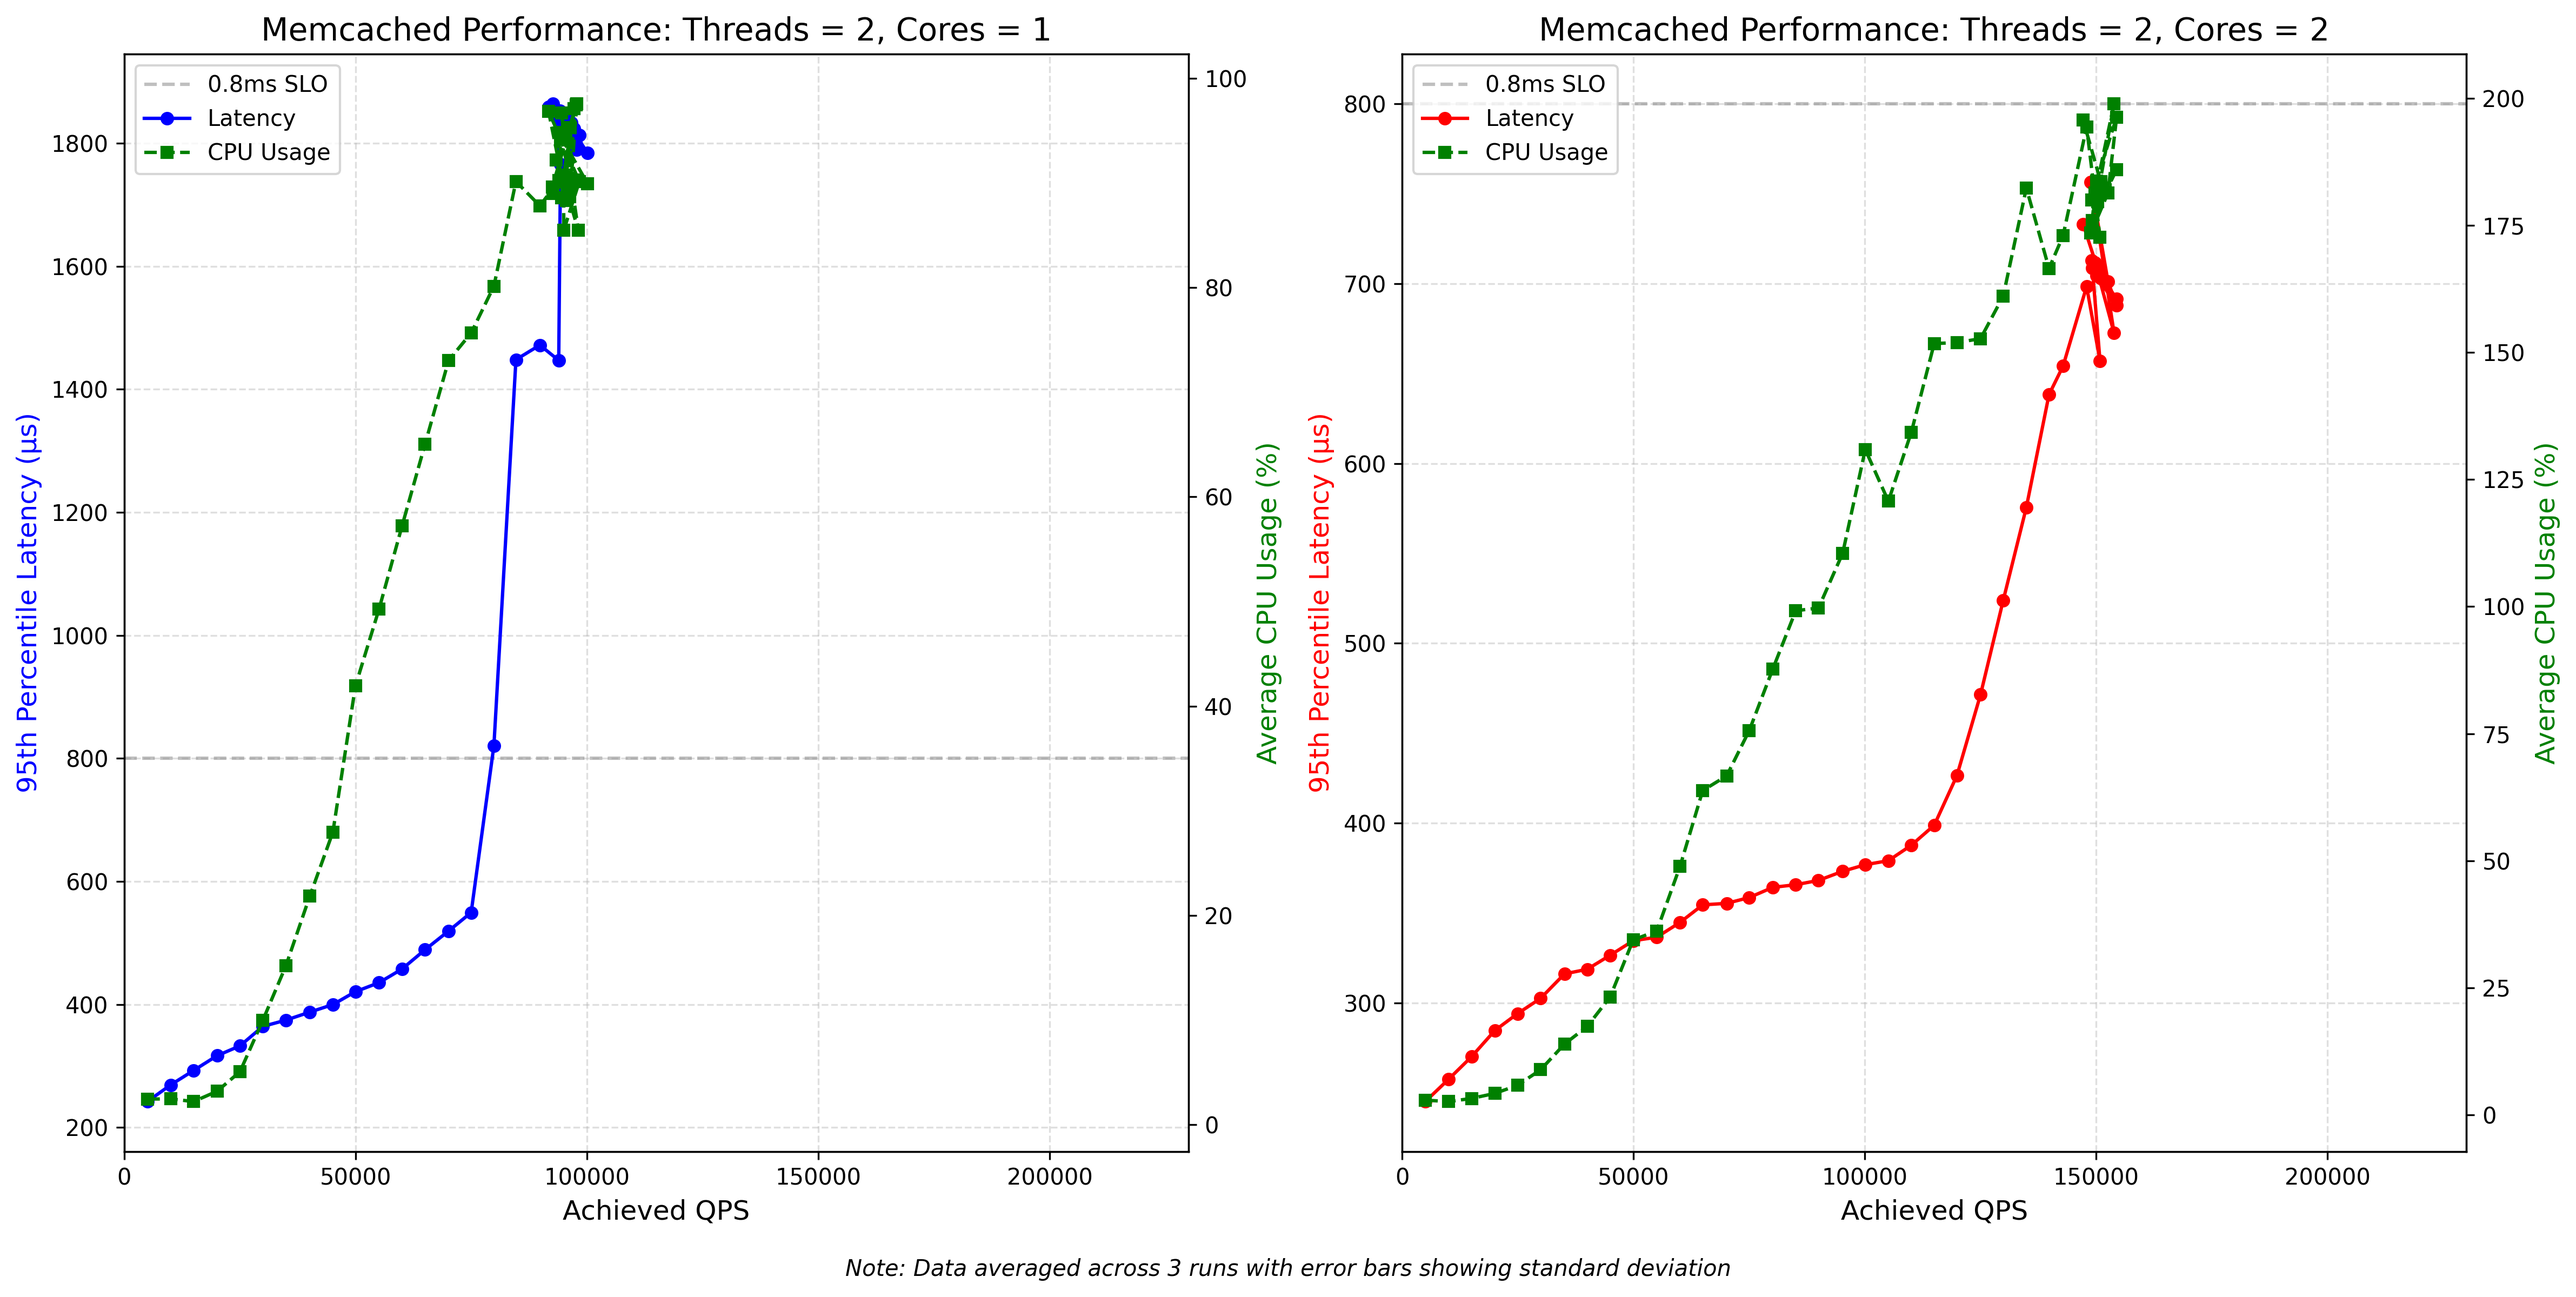
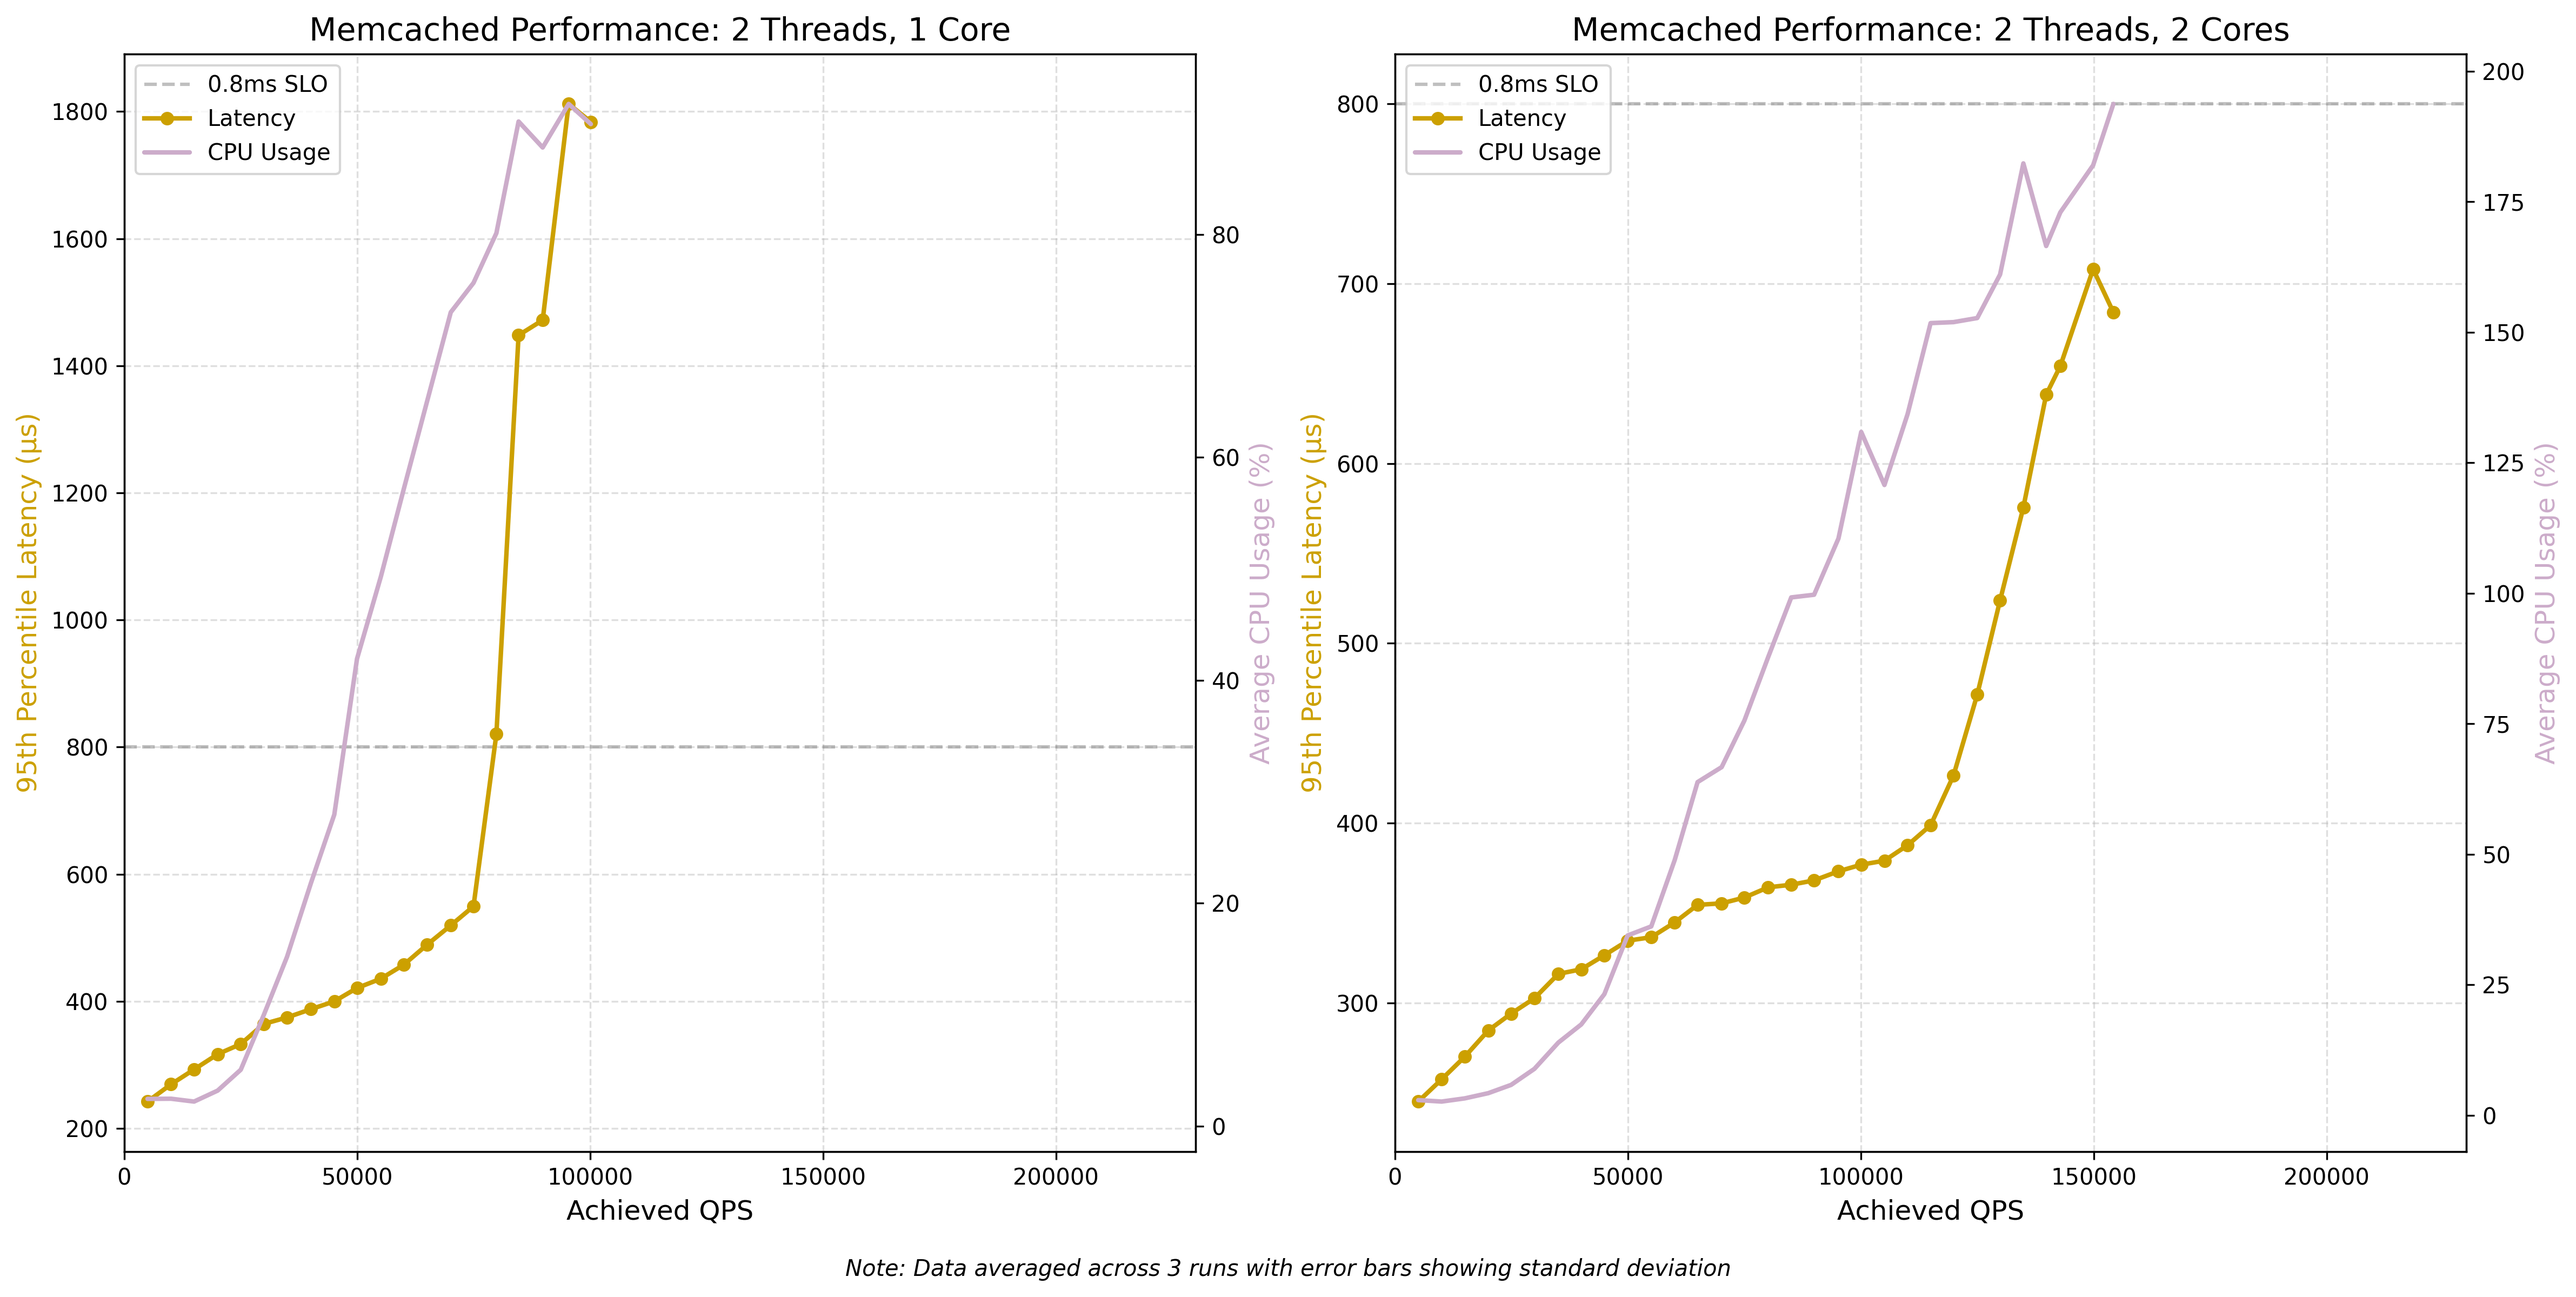
improve part4d plot

diff --git a/part4/vis_part4_1_d.py b/part4/vis_part4_1_d.py
@@ -4,6 +4,10 @@ import os
 import numpy as np
 import csv
 from collections import defaultdict
+import sys
+
+
+COLORS = ['#CCA000', '#CCACCA']
 
 def read_cpu_usage(file_path: str, cores: list[int]):
     """Read CPU usage data from CSV file and return as a list of (timestamp, cpu_percentages) tuples."""
@@ -53,11 +57,54 @@ def calculate_avg_cpu_usage(cpu_data, start_time, end_time):
         return 0
     return sum(relevant_data) / len(relevant_data)
 
-def main():
+def aggregate_qps_data(qps_data, latency_data, cpu_data, window_size):
+    """Aggregate data points where QPS values are within a specified window size."""
+    # Sort all data by QPS
+    combined_data = list(zip(qps_data, latency_data, cpu_data))
+    combined_data.sort(key=lambda x: x[0])
+    
+    aggregated_qps = []
+    aggregated_latency = []
+    aggregated_cpu = []
+    
+    current_window = []
+    current_qps = None
+    
+    for qps, latency, cpu in combined_data:
+        if current_qps is None or abs(qps - current_qps) <= window_size:
+            current_window.append((qps, latency, cpu))
+            current_qps = qps
+        else:
+            # Calculate averages for the current window
+            avg_qps = np.mean([x[0] for x in current_window])
+            avg_latency = np.mean([x[1] for x in current_window])
+            avg_cpu = np.mean([x[2] for x in current_window])
+            
+            aggregated_qps.append(avg_qps)
+            aggregated_latency.append(avg_latency)
+            aggregated_cpu.append(avg_cpu)
+            
+            # Start new window
+            current_window = [(qps, latency, cpu)]
+            current_qps = qps
+    
+    # Process the last window
+    if current_window:
+        avg_qps = np.mean([x[0] for x in current_window])
+        avg_latency = np.mean([x[1] for x in current_window])
+        avg_cpu = np.mean([x[2] for x in current_window])
+        
+        aggregated_qps.append(avg_qps)
+        aggregated_latency.append(avg_latency)
+        aggregated_cpu.append(avg_cpu)
+    
+    return aggregated_qps, aggregated_latency, aggregated_cpu
+
+def main(window_size: int):
     # Define the configurations
     configs = {
-        "experiment1Core2Threads": {"T": 2, "C": 1, "label": "Threads = 2, Cores = 1"},
-        "experiment2Cores2Threads": {"T": 2, "C": 2, "label": "Threads = 2, Cores = 2"},
+        "experiment1Core2Threads": {"T": 2, "C": 1, "label": "2 Threads, 1 Core"},
+        "experiment2Cores2Threads": {"T": 2, "C": 2, "label": "2 Threads, 2 Cores"},
     }
     
     # Create a figure with two subplots
@@ -115,6 +162,8 @@ def main():
             avg_latency.append(np.mean(latency_data[target]))
             avg_cpu_usage.append(np.mean(cpu_data[target]))
 
+        # Aggregate data points within 5k QPS windows
+        avg_qps, avg_latency, avg_cpu_usage = aggregate_qps_data(avg_qps, avg_latency, avg_cpu_usage, window_size)
         
         # Create the primary y-axis for latency
         ax1 = axs[i]
@@ -124,20 +173,20 @@ def main():
         
         # Create bar plot for CPU usage first (behind)
         ax2.errorbar(avg_qps, avg_cpu_usage,
-                    label="CPU Usage", color='green',
-                    marker='s', linestyle='--', linewidth=1.5, markersize=5,
+                    label="CPU Usage", color=COLORS[1],
+                    linestyle='-', linewidth=2, solid_capstyle='round',
                     capsize=3, capthick=1, elinewidth=1, zorder=1)
         
         # Create the latency plot on top
         ax1.errorbar(avg_qps, avg_latency,
-                    label="Latency", color=colors[i], 
-                    marker='o', linestyle='-', linewidth=1.5, markersize=5,
+                    label="Latency", color=COLORS[0], 
+                    marker='o', linestyle='-', linewidth=2, markersize=5,
                     capsize=3, capthick=1, elinewidth=1, zorder=2)
         
         # Set labels and title for each subplot
         ax1.set_xlabel('Achieved QPS', fontsize=12)
-        ax1.set_ylabel('95th Percentile Latency (μs)', fontsize=12, color=colors[i])
-        ax2.set_ylabel('Average CPU Usage (%)', fontsize=12, color='green')
+        ax1.set_ylabel('95th Percentile Latency (μs)', fontsize=12, color=COLORS[0])
+        ax2.set_ylabel('Average CPU Usage (%)', fontsize=12, color=COLORS[1])
         axs[i].set_title(f'Memcached Performance: {config["label"]}', fontsize=14)
         
         # Set x-axis limits from 0 to 230000
@@ -172,4 +221,11 @@ def main():
 
 
 if __name__ == "__main__":
-    main()
+    # check if w is in the args and take next arg as window size        
+    args = sys.argv[1:]
+    window_size = 1
+    if "-w" in args:
+        window_size = int(args[args.index("-w") + 1])
+
+    print(f"Window size: {window_size}")
+    main(window_size)
